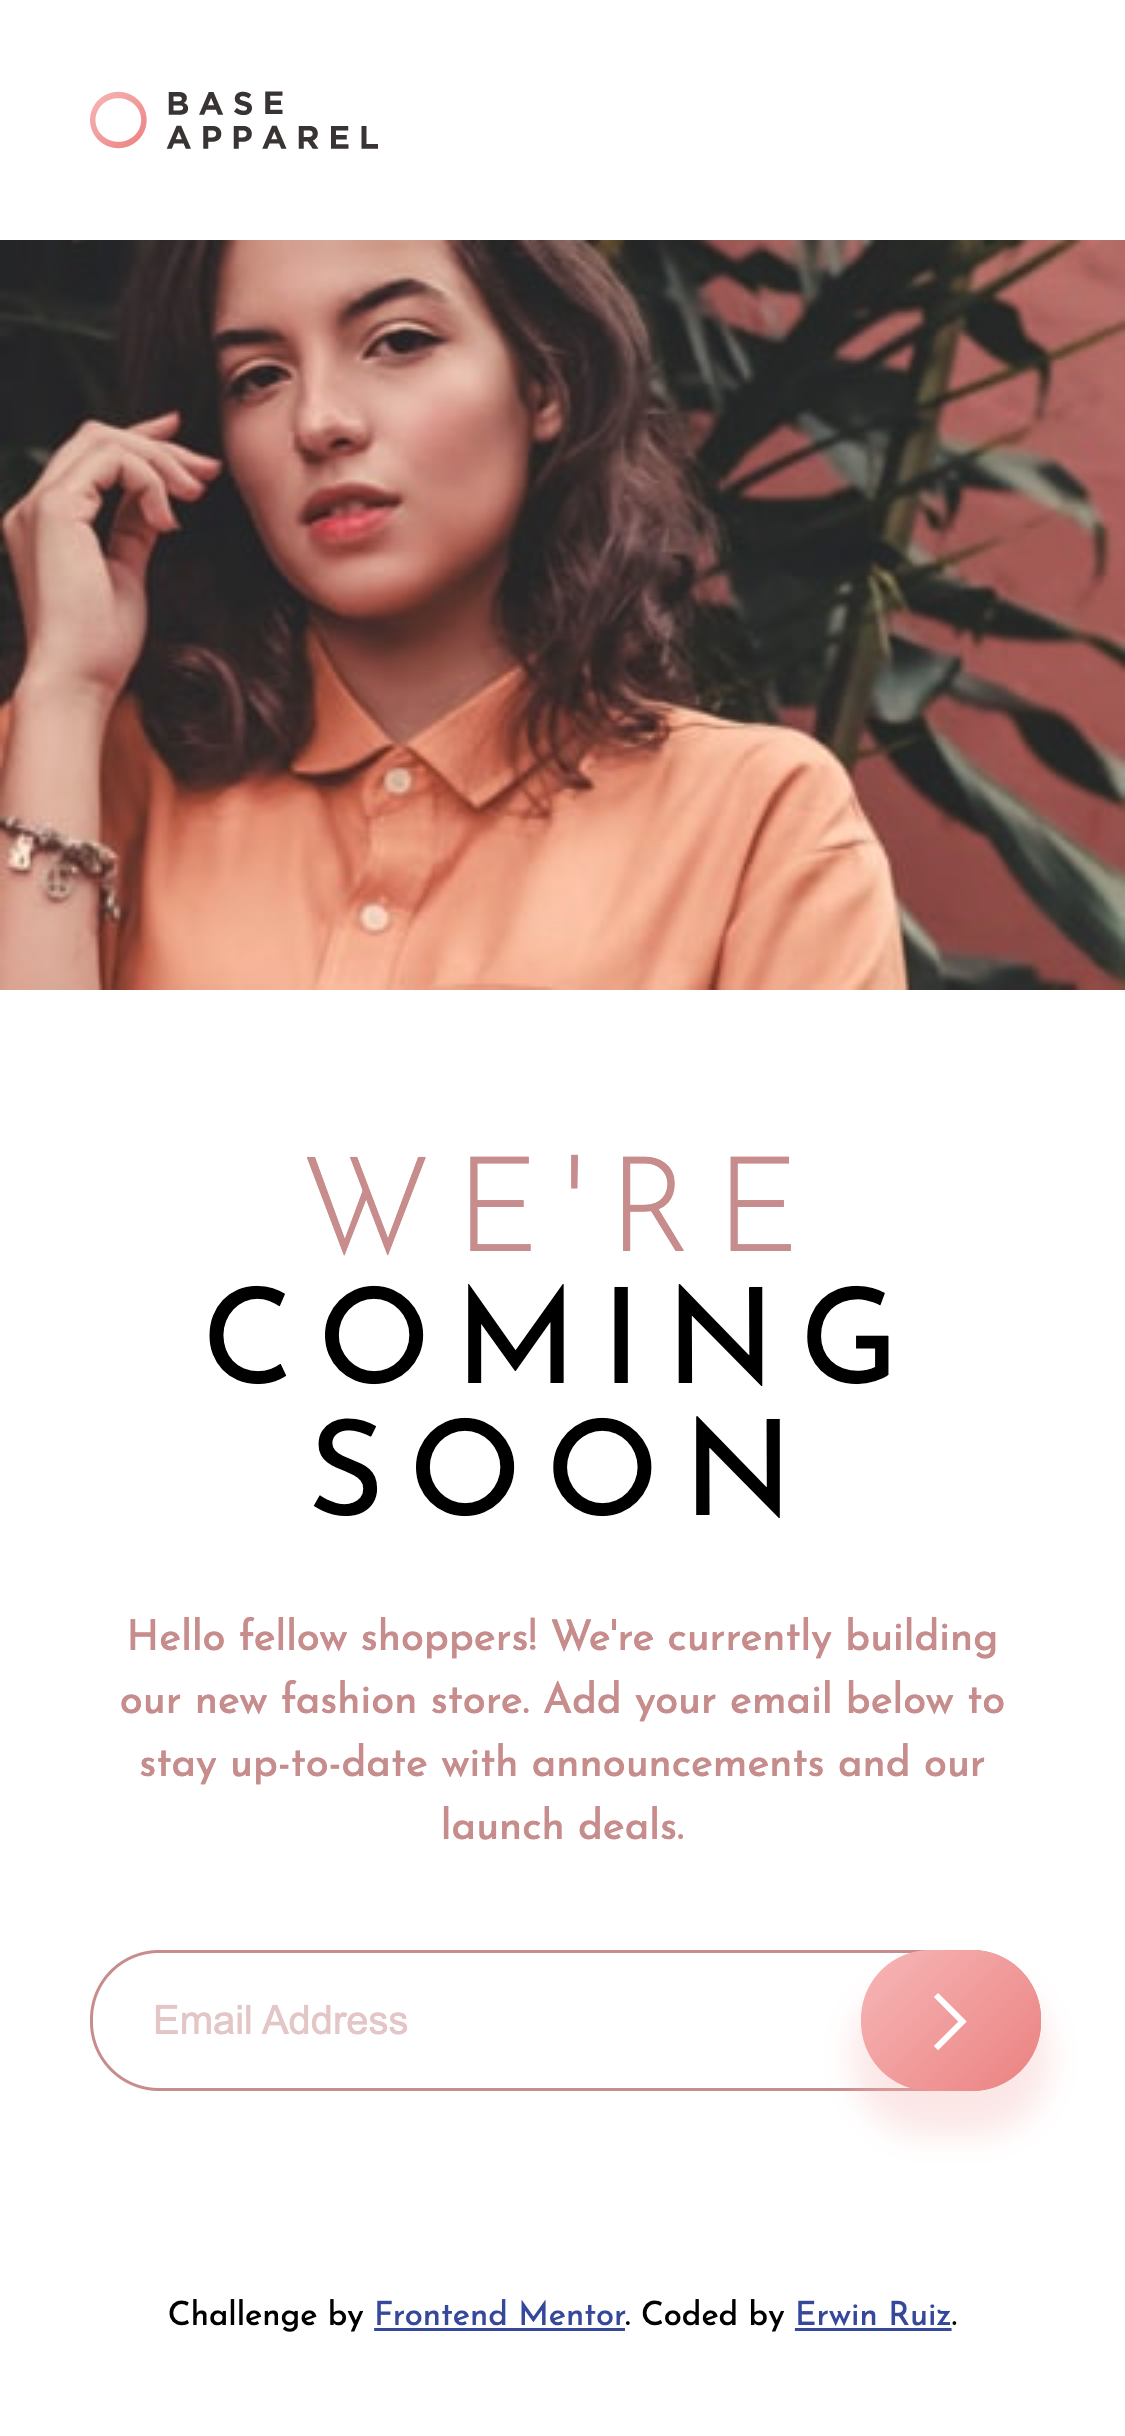
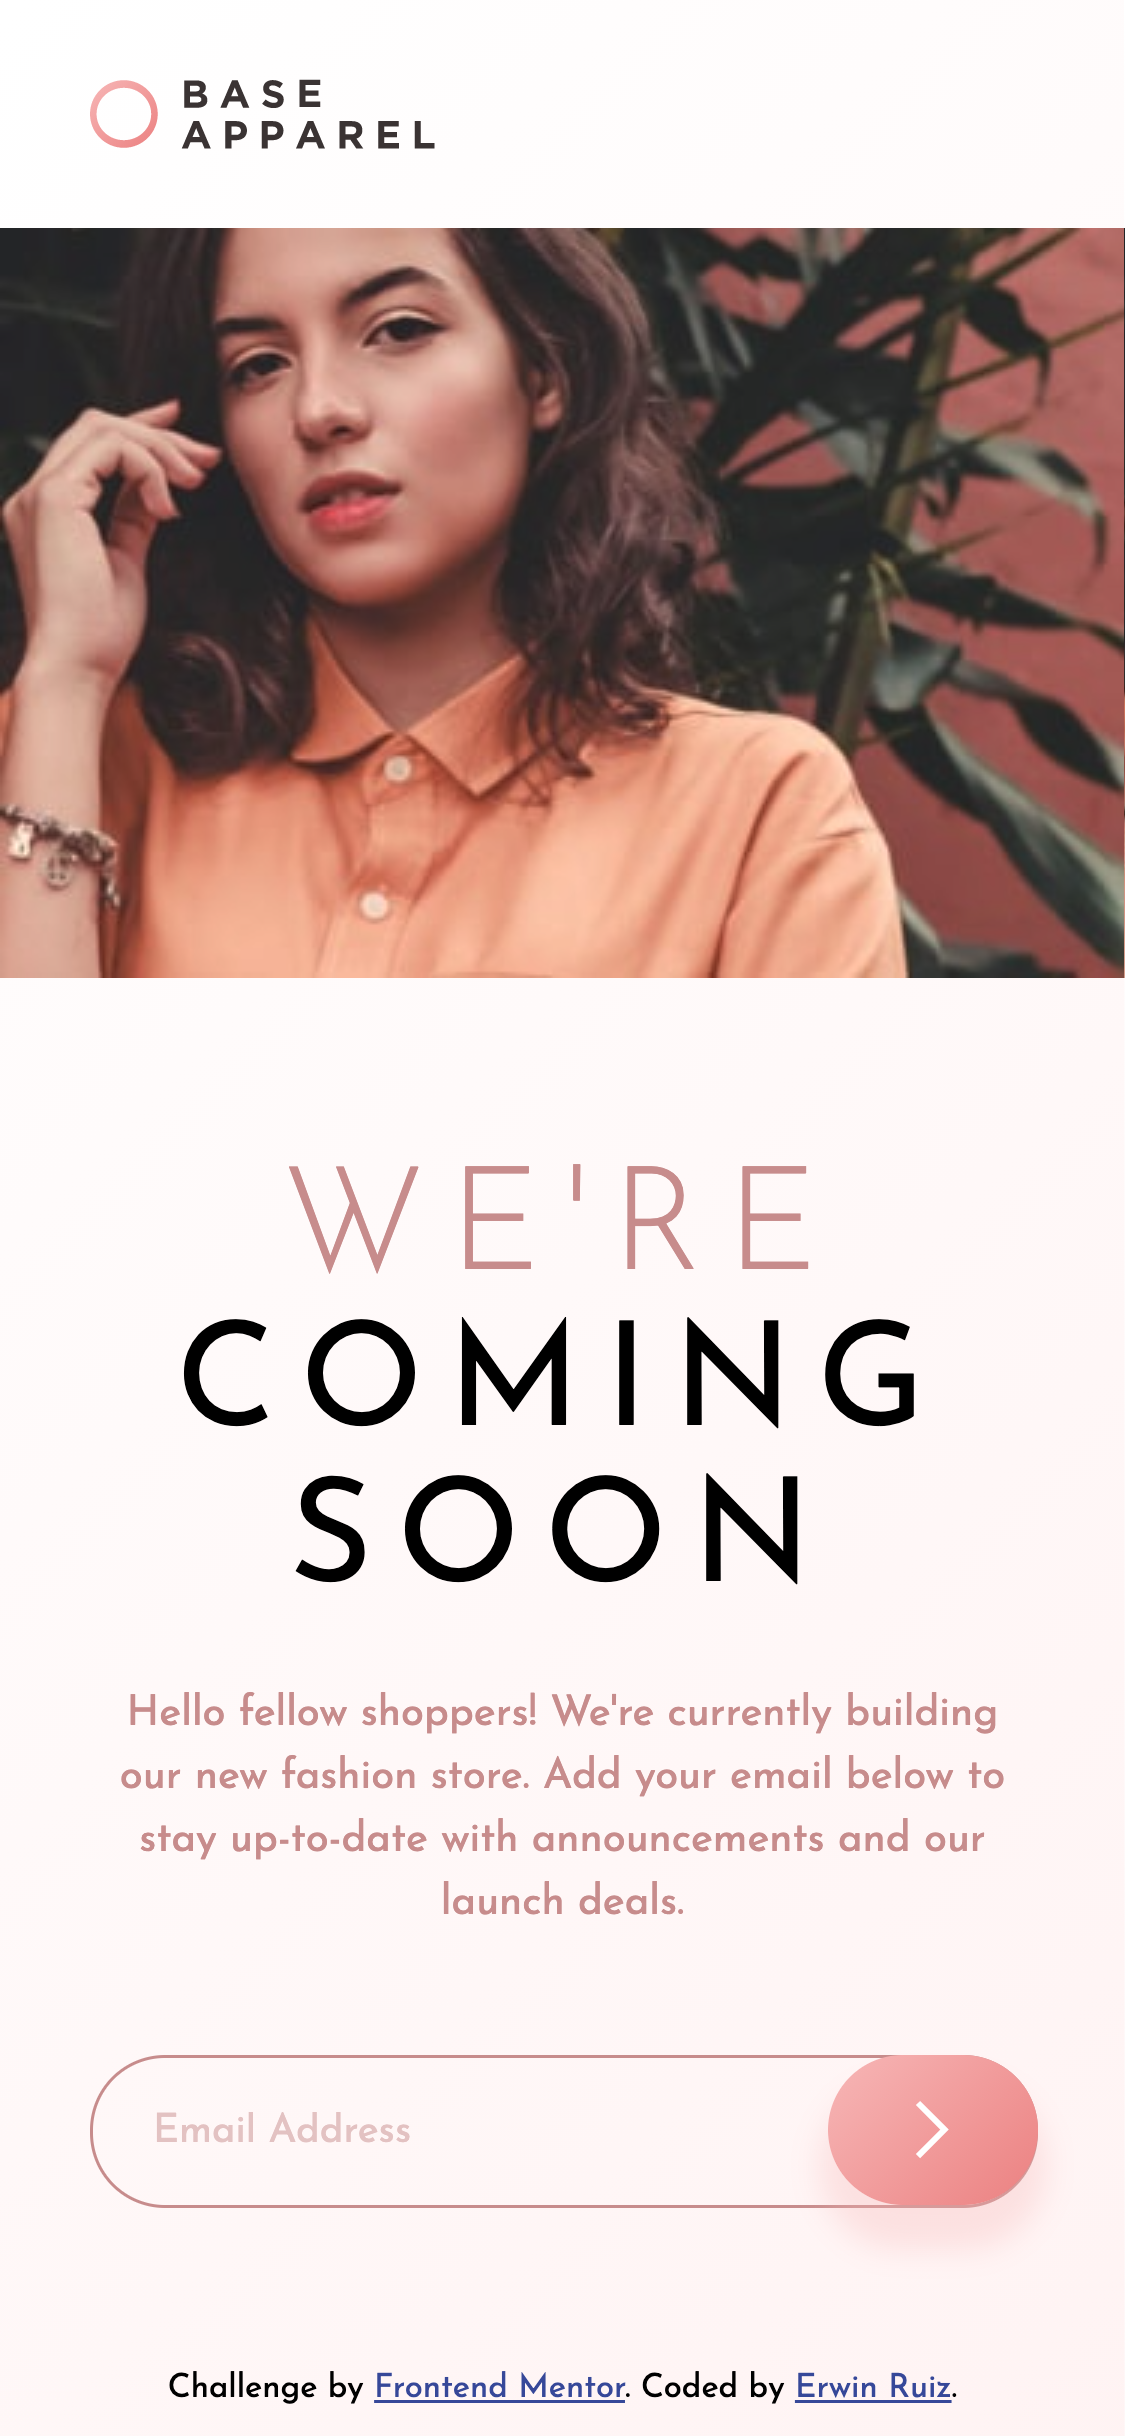
Make desktop design

diff --git a/styles.css b/styles.css
@@ -18,6 +18,8 @@
 }
 
 body {
+  height: 100vh;
+  background: linear-gradient(135deg, hsl(0, 0%, 100%), hsl(0, 100%, 98%));
   font-family: "Josefin Sans", sans-serif;
   font-size: 16px;
   display: flex;
@@ -26,32 +28,36 @@ body {
   justify-content: center;
 }
 header {
-  height: 80px;
+  height: 76px;
   padding: 0 30px;
   display: flex;
   align-items: center;
   width: 315px;
 }
 header img {
-  height: 20px;
+  height: 24px;
 }
-main {
-  margin-bottom: 20px;
+main .hero_desktop {
+  display: none;
 }
 main .content {
-  padding: 50px 30px;
+  padding: 55px 30px;
   width: 315px;
+}
+main .content .logo {
+  display: none;
 }
 main .content h1 span {
   color: var(--DesaturatedRed);
   font-weight: 300;
 }
 main .content h1 {
-  font-size: 44px;
+  font-size: 48px;
   text-transform: uppercase;
   text-align: center;
   letter-spacing: 8px;
   font-weight: 400;
+  line-height: 1.1;
   margin-bottom: 20px;
 }
 main .content .description {
@@ -60,31 +66,32 @@ main .content .description {
   font-weight: 400;
   line-height: 1.5;
   font-size: 14px;
-  margin-bottom: 30px;
+  margin-bottom: 40px;
 }
 main .content input {
-  width: 200px;
+  width: 189px;
   border: 1px solid var(--DesaturatedRed);
-  border-radius: 25px;
-  padding: 15px 95px 15px 20px;
+  border-radius: 30px;
+  padding: 18px 105px 18px 20px;
   outline: none;
   font-family: "Josefin Sans", sans-serif;
+  background-color: transparent;
 }
 main .content input::placeholder {
   color: var(--DesaturatedRed);
   opacity: 0.5;
 }
 main .content .arrow_icon {
-  height: 45px;
-  width: 60px;
+  height: 50px;
+  width: 70px;
   border-radius: 145px;
   background: linear-gradient(135deg, hsl(0, 80%, 86%), hsl(0, 74%, 74%));
   position: absolute;
   display: flex;
   align-items: center;
   justify-content: center;
-  margin-left: 256.5px;
-  margin-top: -45px;
+  margin-left: 246px;
+  margin-top: -51px;
   box-shadow: 0 12px 10px 3px hsla(0, 80%, 86%, 0.335);
   cursor: pointer;
 }
@@ -101,8 +108,8 @@ main .content .hide {
 main .content .error_message img {
   position: absolute;
   height: 20px;
-  margin-left: 225px;
-  margin-top: -33px;
+  margin-left: 218px;
+  margin-top: -36px;
 }
 main .content .error_message p {
   position: absolute;
@@ -114,4 +121,83 @@ main .content .error_message p {
 }
 .input_error {
   border: 1px solid var(--SoftRed) !important;
+}
+.attribution {
+  margin-bottom: 10px;
+}
+
+@media (width: 1440px) {
+  main .content {
+    background-image: url("./images/bg-pattern-desktop.svg");
+  }
+}
+@media (min-width: 1440px) {
+  body {
+    width: 100vw;
+    height: 100vh;
+  }
+  header {
+    display: none;
+  }
+  main {
+    display: flex;
+    flex-direction: row-reverse;
+    width: 1440px;
+    align-items: center;
+  }
+  main .hero_mobile {
+    display: none;
+  }
+  main .hero_desktop {
+    display: initial;
+    max-height: 100vh;
+  }
+  main .content {
+    padding: 0;
+    width: 50%;
+    height: 100%;
+    padding-right: 230px;
+    padding-left: 165px;
+  }
+  main .content .logo {
+    display: initial;
+    margin-top: 60px;
+    margin-bottom: 130px;
+  }
+  main .content h1 {
+    font-size: 68px;
+    letter-spacing: 12px;
+    text-align: left;
+  }
+  main .content .description {
+    text-align: left;
+    font-size: 16px;
+    line-height: 1.7;
+    margin-bottom: 50px;
+  }
+  main .content input {
+    width: 275px;
+    padding: 20px 140px 20px 20px;
+    border-radius: 30px;
+    font-size: 16px;
+  }
+  main .content .arrow_icon {
+    height: 58px;
+    width: 90px;
+    margin-left: 347px;
+    margin-top: -58px;
+  }
+  main .content .error_message img {
+    height: initial;
+    margin-left: 310px;
+    margin-top: -41px;
+  }
+  main .content .error_message p {
+    margin-left: 20px;
+    font-size: 16px;
+    margin-top: 10px;
+  }
+  .attribution {
+    display: none;
+  }
 }

diff --git a/index.html b/index.html
@@ -31,23 +31,34 @@
       <img src="./images/logo.svg" alt="logo" />
     </header>
     <main>
-      <img src="./images/hero-mobile.jpg" alt="hero image" />
+      <img
+        src="./images/hero-mobile.jpg"
+        alt="hero image"
+        class="hero_mobile"
+      />
+      <img
+        src="./images/hero-desktop.jpg"
+        alt="hero image"
+        class="hero_desktop"
+      />
       <div class="content">
-        <h1><span>We're</span> coming soon</h1>
+        <img src="./images/logo.svg" alt="logo" class="logo" />
+        <div>
+          <h1><span>We're</span> coming soon</h1>
+          <p class="description">
+            Hello fellow shoppers! We're currently building our new fashion
+            store. Add your email below to stay up-to-date with announcements
+            and our launch deals.
+          </p>
 
-        <p class="description">
-          Hello fellow shoppers! We're currently building our new fashion store.
-          Add your email below to stay up-to-date with announcements and our
-          launch deals.
-        </p>
-
-        <input placeholder="Email Address" type="email" class="email_input" />
-        <div class="arrow_icon">
-          <img src="./images/icon-arrow.svg" alt="arrow icon" />
-        </div>
-        <div class="error_message hide">
-          <img src="./images/icon-error.svg" alt="error icon" />
-          <p>Please provide a valid email</p>
+          <input placeholder="Email Address" type="email" class="email_input" />
+          <div class="arrow_icon">
+            <img src="./images/icon-arrow.svg" alt="arrow icon" />
+          </div>
+          <div class="error_message hide">
+            <img src="./images/icon-error.svg" alt="error icon" />
+            <p>Please provide a valid email</p>
+          </div>
         </div>
       </div>
     </main>
